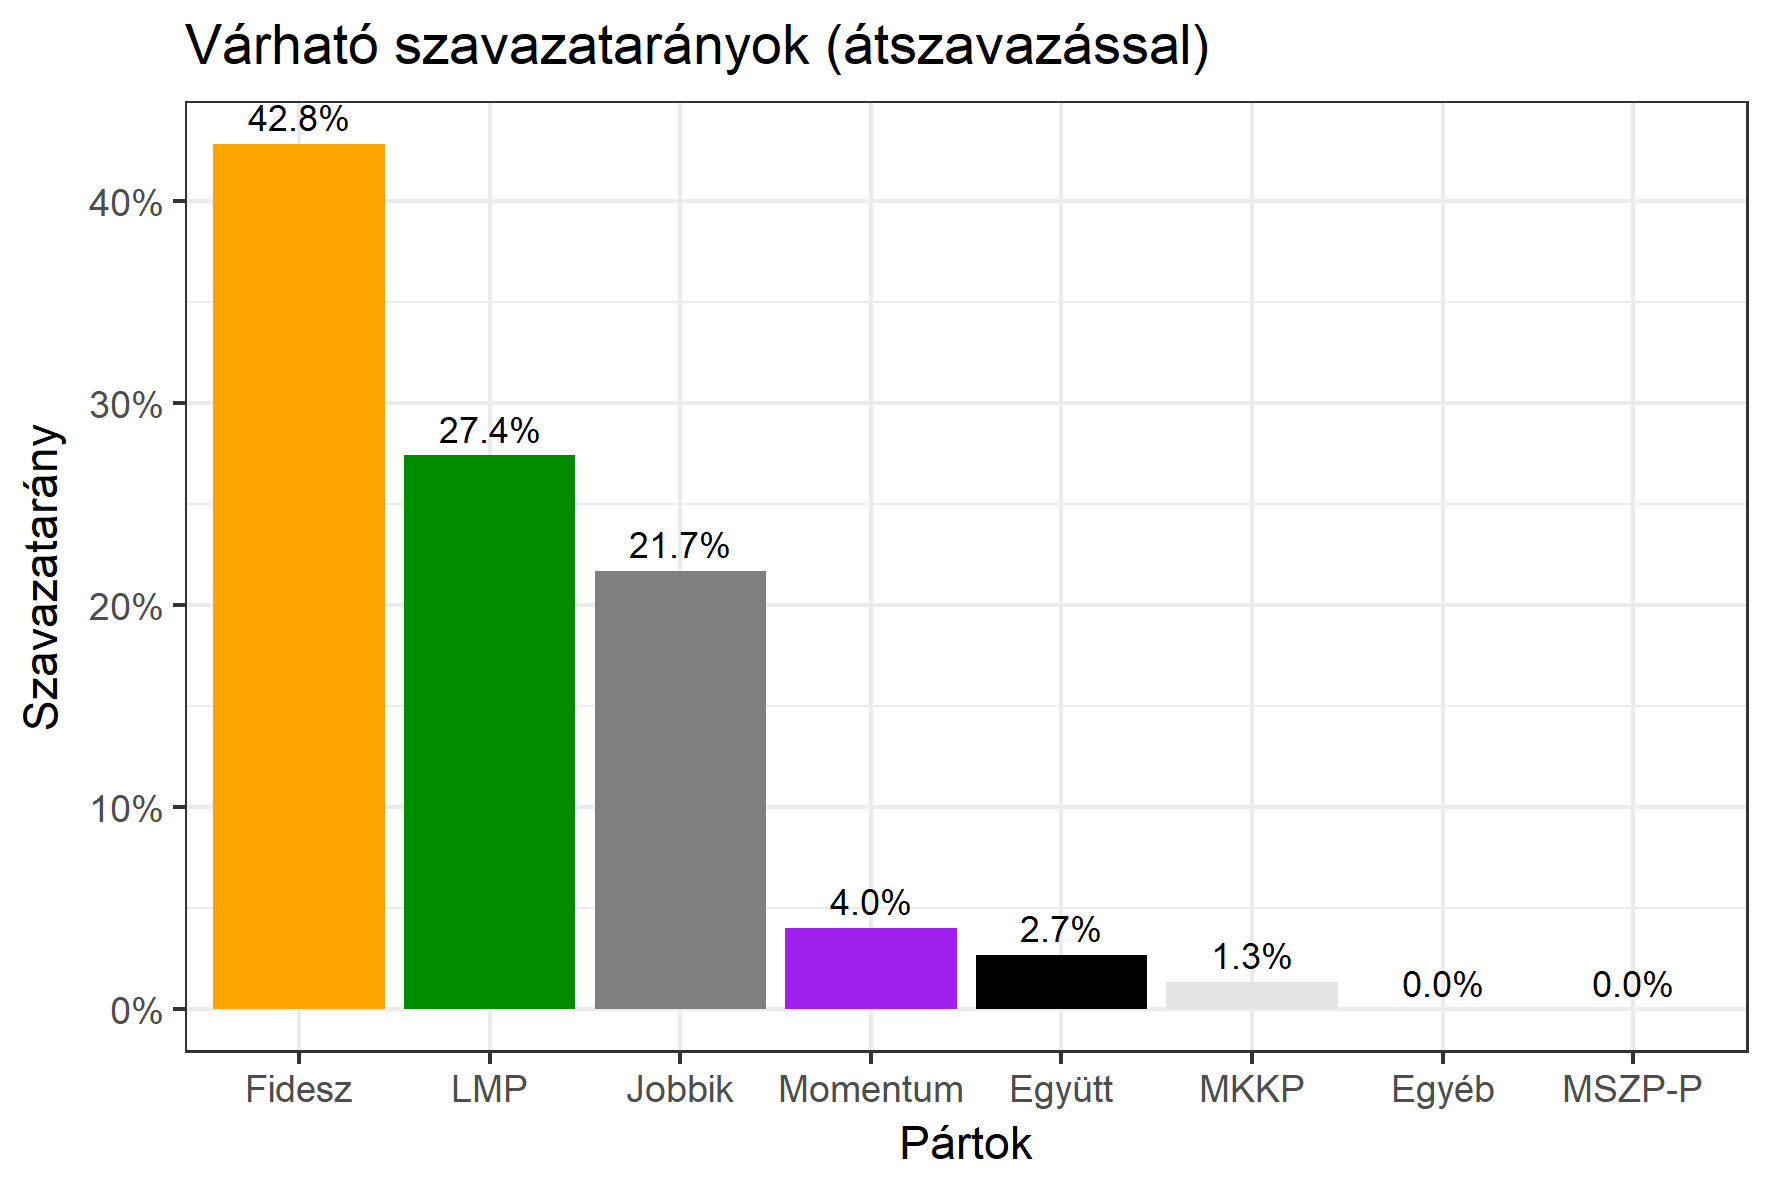
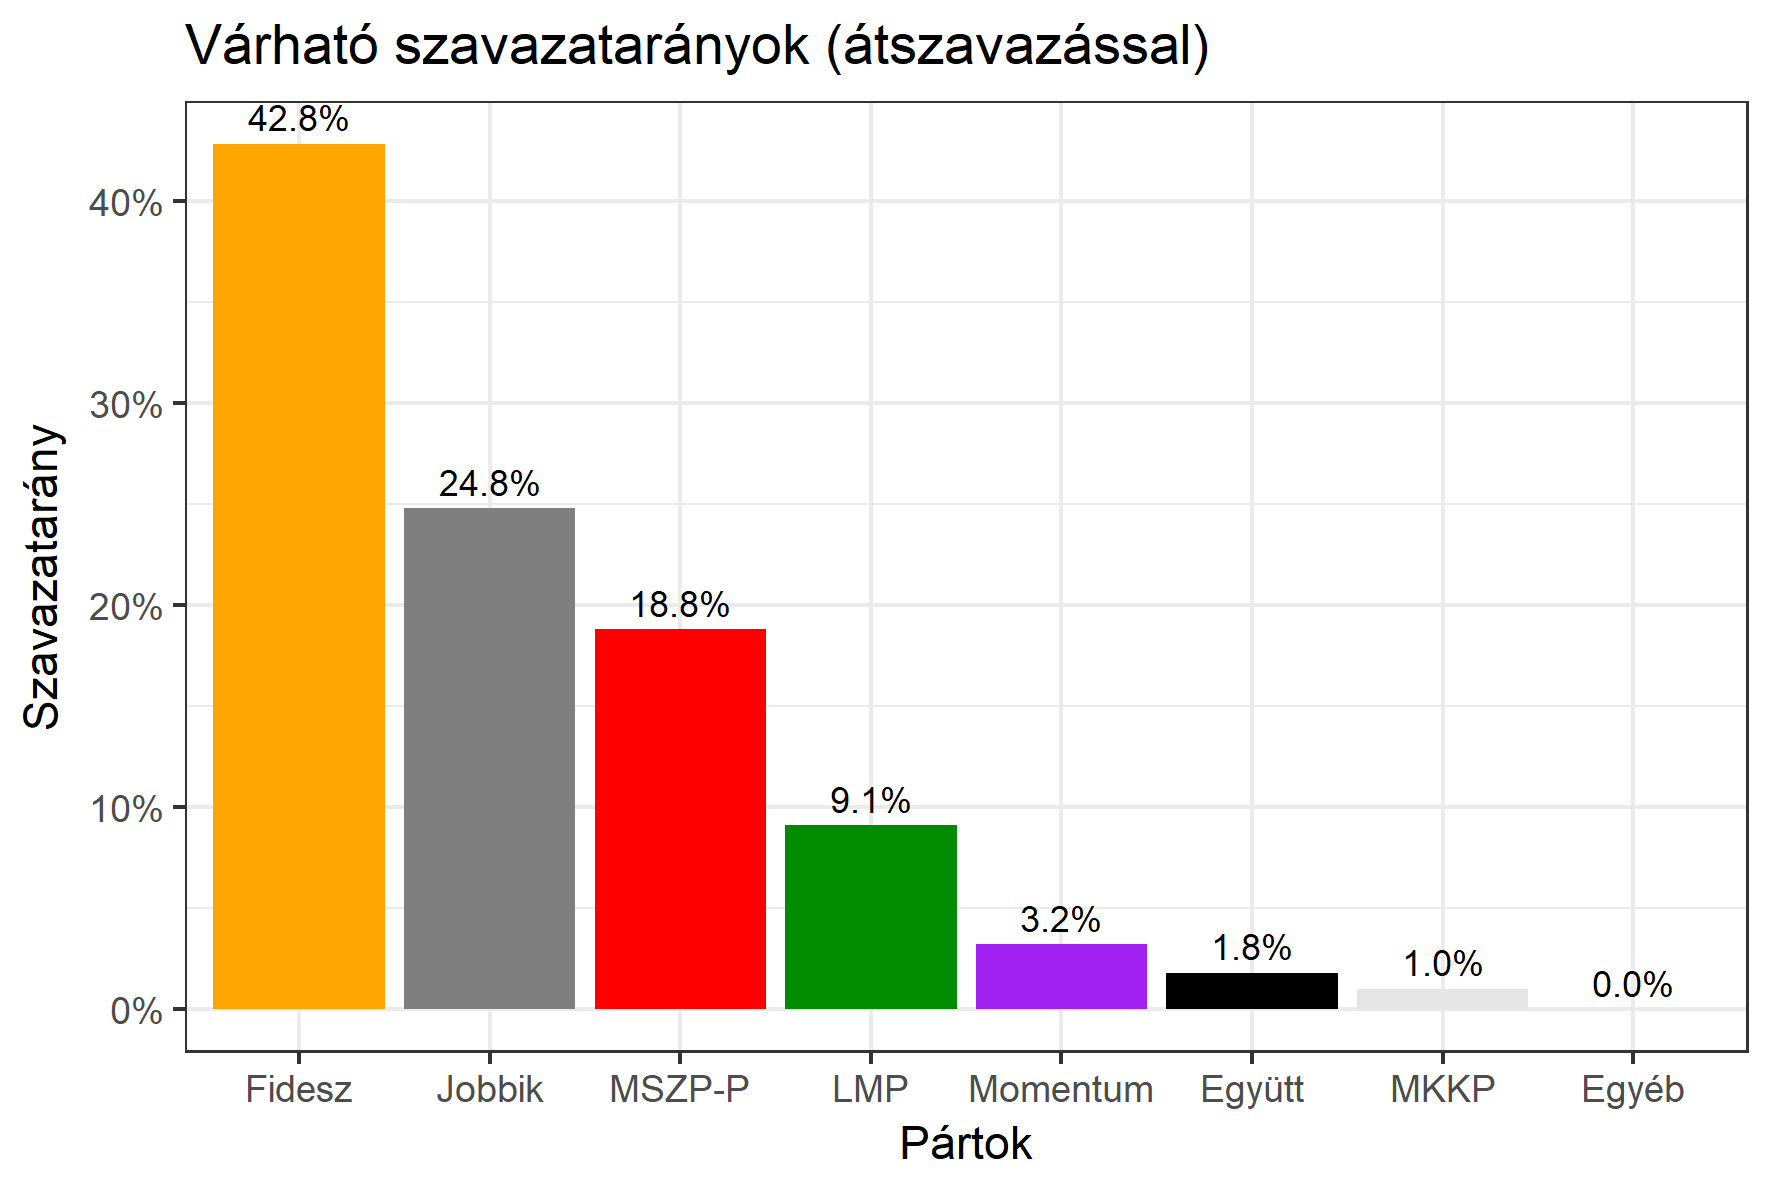
pe6 update

diff --git a/pe6.md b/pe6.md
@@ -40,15 +40,15 @@ permalink: /pe6
 			</tr>
 			<tr>
 				  <td>Molnár László - Momentum <img src="images/momentum_logo.png" style="width:44px;height:30px;"></td>
-				   <td id="id_momentum">3.9% &emsp; <span id="id_momentum2">(4.0%)</span></td>
+				   <td id="id_momentum">3.9% &emsp; <span id="id_momentum2">(3.2%)</span></td>
 			</tr>
 <tr>
 <td>Kis Imre -  Együtt <img src="images/egyutt_logo2.png" style="width:71px;height:30px;"></td>
- <td id="id_egyutt">2.6% &emsp; <span id="id_egyutt2">(2.7%)</span></td>
+ <td id="id_egyutt">2.6% &emsp; <span id="id_egyutt2">(1.8%)</span></td>
 </tr>           
 <tr>
 <td>Bősze Gábor - MKKP <img src="images/mkkp_logo.png" style="width:49px;height:30px;"></td>
- <td id="id_mkkp">1.3% &emsp; <span id="id_mkkp2">(1.3)</span></td>
+ <td id="id_mkkp">1.3% &emsp; <span id="id_mkkp2">(1.0%)</span></td>
 </tr>       
               </tbody>
             </table><h5>Várható győztes: <span id="gyoztes">Fidesz</span><span id="esely"></span><span></span></h5>

diff --git a/to1.md b/to1.md
@@ -31,7 +31,7 @@ permalink: /to1
 			</tr>
 			<tr><td>Szabó Balázs György - Jobbik <img src="images/jobbik_logo.png" style="width:23px;height:30px;"></td> <td id="id_jobbik">18.6% &emsp; <span id="id_jobbik2">(19.7%)</span></td></tr>
 <tr>
-                  <td>dr. Harangozó Tamás - MSZP-Párbeszéd <img src="images/mszpparbeszed_logo.png" style="width:60px;height:30px;"></td>
+                  <td><strong>VISSZALÉPETT AZ LMP JAVÁRA</strong> - MSZP-Párbeszéd <img src="images/mszpparbeszed_logo.png" style="width:60px;height:30px;"></td>
 				   <td id="id_baloldal">16.1% &emsp; <span id="id_baloldal2">(11.0%)</span></td>
 			</tr>
 			<tr>

diff --git a/bp10.md b/bp10.md
@@ -35,7 +35,7 @@ permalink: /bp10
 				   <td id="id_baloldal">27.9% &emsp; <span id="id_baloldal2">(42.4%)</span></td>
 			</tr>
 			<tr>
-                  <td>Dr. Ábrahám Júlia - LMP <img src="images/lmp_logo.png" style="width:52px;height:30px;"></td>
+                  <td><strong>VISSZALÉPETT AZ MSZP-PÁRBESZÉD JAVÁRA</strong> - LMP <img src="images/lmp_logo.png" style="width:52px;height:30px;"></td>
 				   <td id="id_lmp">16.4% &emsp; <span id="id_lmp2">(10.9%)</span></td>
 			</tr>
 			<tr>

diff --git a/baz2.md b/baz2.md
@@ -35,7 +35,7 @@ permalink: /baz2
 				   <td id="id_baloldal">28.5% &emsp; <span id="id_baloldal2">(33.4%)</span></td>
 			</tr>
 			<tr>
-                  <td>Doszpoly Botond László - LMP <img src="images/lmp_logo.png" style="width:52px;height:30px;"></td>
+                  <td><strong>VISSZALÉPETT AZ MSZP-PÁRBESZÉD JAVÁRA</strong> - LMP <img src="images/lmp_logo.png" style="width:52px;height:30px;"></td>
 				   <td id="id_lmp">6.2% &emsp; <span id="id_lmp2">(4.2%)</span></td>
 			</tr>
 			
